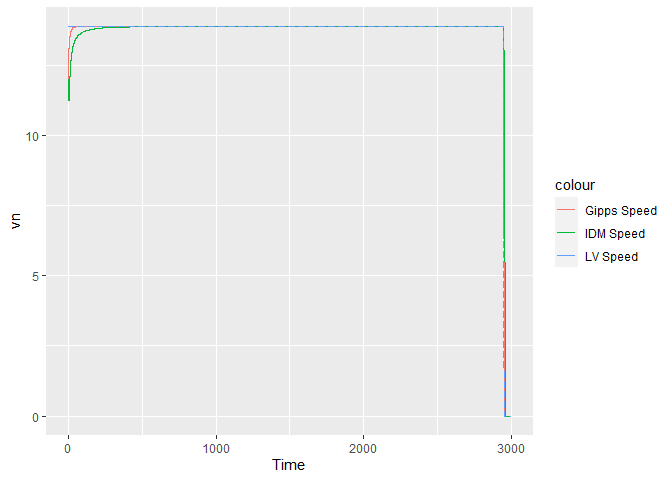
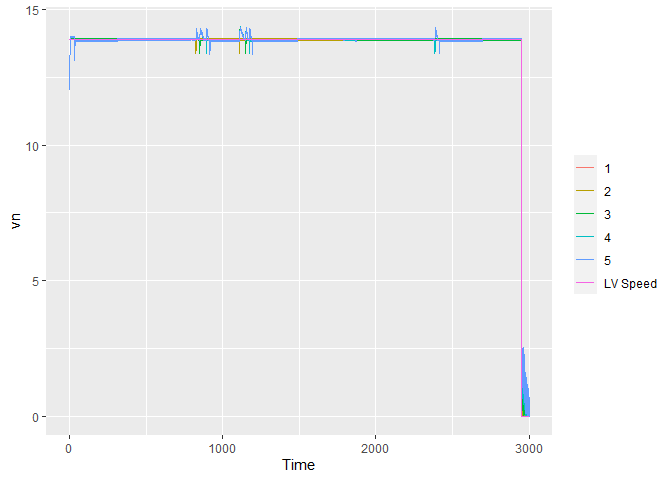
warnings gone; readme edited with wiedemann74_driver

diff --git a/README.md b/README.md
@@ -206,12 +206,12 @@ bcap=-2
 
 head(results_gipps)
 #>   fvn Time    xn1  vn1 ln1 bcap   bn      bn_v       xn       vn       sn
-#> 1   1  0.0 100.00 13.9 6.5   -2 -1.5 0.7815591 85.00000 12.00000 8.500000
-#> 2   1  0.1 101.39 13.9 6.5   -2 -1.5 0.7585004 86.20391 12.07816 8.686092
-#> 3   1  0.2 102.78 13.9 6.5   -2 -1.5 0.7359608 87.41552 12.15401 8.864484
-#> 4   1  0.3 104.17 13.9 6.5   -2 -1.5 0.7139400 88.63460 12.22760 9.035404
-#> 5   1  0.4 105.56 13.9 6.5   -2 -1.5 0.6924367 89.86093 12.29900 9.199074
-#> 6   1  0.5 106.95 13.9 6.5   -2 -1.5 0.6714485 91.09429 12.36824 9.355712
+#> 1   1  0.0 100.00 13.9 6.5   -2 -1.5 0.7815591 85.00000 12.00000  8.50000
+#> 2   1  0.1 101.39 13.9 6.5   -2 -1.5 0.7585004 86.20391 12.07816 15.18609
+#> 3   1  0.2 102.78 13.9 6.5   -2 -1.5 0.7359608 87.41552 12.15401 15.36448
+#> 4   1  0.3 104.17 13.9 6.5   -2 -1.5 0.7139400 88.63460 12.22760 15.53540
+#> 5   1  0.4 105.56 13.9 6.5   -2 -1.5 0.6924367 89.86093 12.29900 15.69907
+#> 6   1  0.5 106.95 13.9 6.5   -2 -1.5 0.6714485 91.09429 12.36824 15.85571
 #>      deltav
 #> 1 -1.900000
 #> 2 -1.821844
@@ -231,6 +231,68 @@ ggplot(data = results_gipps) +
 ```
 
 <img src="man/figures/README-unnamed-chunk-2-1.png" width="100%" />
+
+## Wiedemann 74 Model (individual driver)
+
+``` r
+results_w74d <- simulate_wiedemann74_driver(
+ resolution=0.1,
+ N=5,
+ dfn1=ldf,
+ xn1="xn1_complete",
+ vn1="vn1_complete",
+ bn1="bn1_complete",
+ xn_first=list(85, 70, 55, 40, 25),
+ vn_first=list(12, 12, 12, 12, 12),
+ ln=list(5, 5, 5, 5, 5),
+ D_MAX=150,
+ V_MAX=44,
+ V_DESIRED=14.4,
+ FAKTORVmult=0.001,
+ BMAXmult=0.08,
+ BNULLmult=0.25,
+ BMIN=-5,
+ CX=50,
+ AXadd=2,
+ BXadd=2,
+ EXadd=2,
+ OPDVadd=1.5
+)
+
+
+head(results_w74d)
+#>   fvn Time    xn1  vn1        bn       xn       vn       sn    deltav AX
+#> 1   1  0.0 100.00 13.9 0.5926839 85.00000 12.00000 15.00000 -1.900000  7
+#> 2   1  0.1 101.39 13.9 0.5782258 86.20296 12.05927 15.18704 -1.840732  7
+#> 3   1  0.2 102.78 13.9 0.5641204 87.41178 12.11709 15.36822 -1.782909  7
+#> 4   1  0.3 104.17 13.9 0.5503591 88.62631 12.17350 15.54369 -1.726497  7
+#> 5   1  0.4 105.56 13.9 0.5369335 89.84641 12.22854 15.71359 -1.671461  7
+#> 6   1  0.5 106.95 13.9 0.5238353 91.07195 12.28223 15.87805 -1.617768  7
+#>         BX      ABX CX      SDX        SDV      CLDV       OPDV      BMAX B_App
+#> 1 6.928203 13.92820 50 20.85641 0.02560000 0.1024000 -0.1536000 0.5926839    NA
+#> 2 6.945291 13.94529 50 20.89058 0.02681103 0.1072441 -0.1608662 0.5782258    NA
+#> 3 6.961922 13.96192 50 20.92384 0.02801083 0.1120433 -0.1680650 0.5641204    NA
+#> 4 6.978109 13.97811 50 20.95622 0.02919785 0.1167914 -0.1751871 0.5503591    NA
+#> 5 6.993866 13.99387 50 20.98773 0.03037064 0.1214826 -0.1822238 0.5369335    NA
+#> 6 7.009203 14.00920 50 21.01841 0.03152790 0.1261116 -0.1891674 0.5238353    NA
+#>   B_Emg BNULL cf_state_sim ln1
+#> 1    NA  0.25 free_driving   5
+#> 2    NA  0.25 free_driving   5
+#> 3    NA  0.25 free_driving   5
+#> 4    NA  0.25 free_driving   5
+#> 5    NA  0.25 free_driving   5
+#> 6    NA  0.25 free_driving   5
+
+
+## Speed
+ggplot(data = results_w74d) +
+  geom_line(aes(x = Time, y = vn, color = as.factor(fvn), group=fvn)) +
+  geom_line(data = subset(results_w74d, fvn==1),
+            aes(x = Time, y = vn1, color = "LV Speed")) +
+  theme(legend.title = element_blank())
+```
+
+<img src="man/figures/README-unnamed-chunk-3-1.png" width="100%" />
 
 ### Compare Models
 
@@ -254,4 +316,4 @@ ggplot() +
 #> Warning: Removed 438 row(s) containing missing values (geom_path).
 ```
 
-<img src="man/figures/README-unnamed-chunk-3-1.png" width="100%" />
+<img src="man/figures/README-unnamed-chunk-4-1.png" width="100%" />
